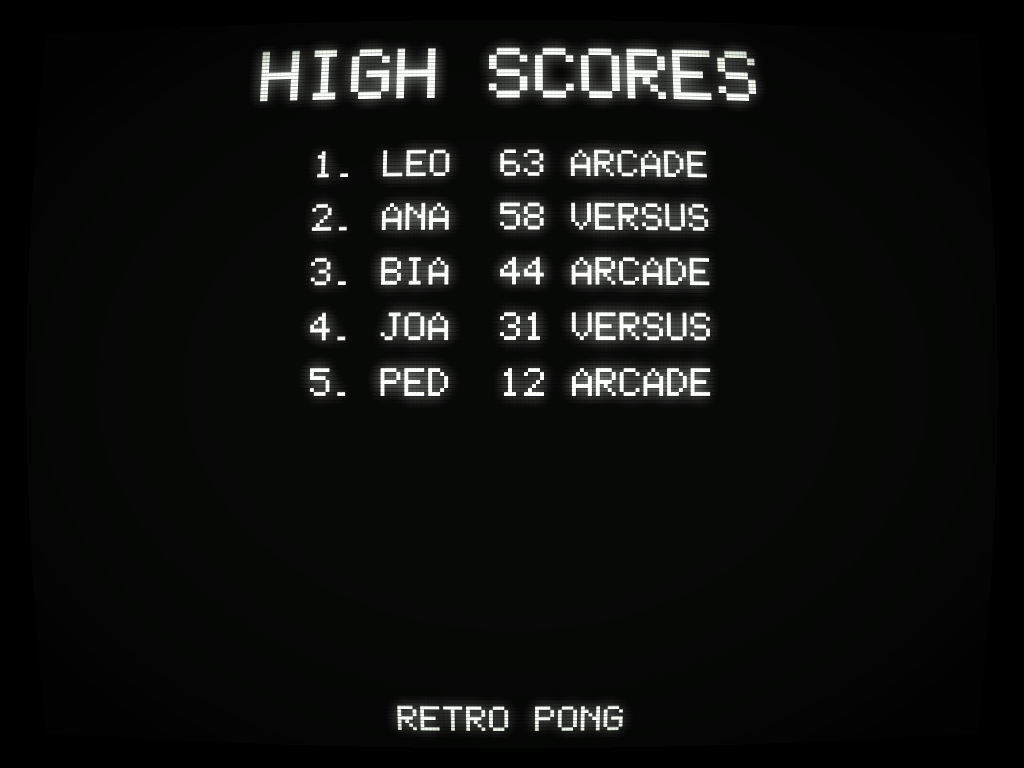
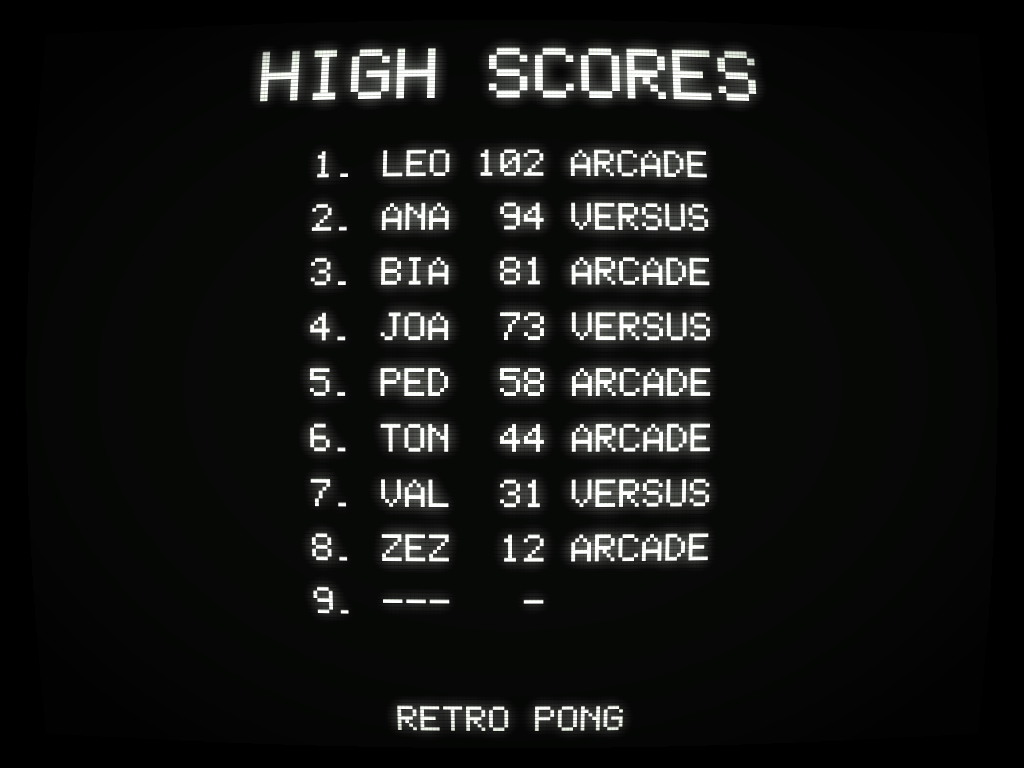
jogo: tabela de recordes com 9 lugares em vez de 5
A tela comporta: uma linha a cada 14 px, de y=36 a y=148, ainda 25 px
acima do rodape. Conferido no pior caso -- as 9 linhas cheias com o maior
placar possivel (123, tres letras, VERSUS) ocupam de y=8 a y=186 e de
x=62 a x=191.

O numero de entradas muda o TAMANHO do registro gravado na flash, entao
vai junto com HISCORE_VERSION 4: sem versao nova, uma tabela v3 antiga
seria lida com o layout novo e so o checksum a pegaria, que e fragil
demais para confiar. Com a v4 ela e descartada no primeiro boot, como ja
aconteceu na v3.

_Static_assert novo em highscores.c: hi_save() grava UMA pagina de flash
e copia a tabela inteira para um buffer desse tamanho, entao subir
HISCORE_COUNT alem do que cabe ali estouraria o buffer sem nenhum aviso.
Sao 84 dos 256 bytes com 9 entradas.

diff --git a/tools/sim.py b/tools/sim.py
@@ -55,7 +55,7 @@ INITIALS_HIST        = 78
 PAUSE_TIMEOUT_S   = 30
 PAUSE_POT_STEP    = 400
 PADDLE_TAKEOVER_TOL = 6
-HISCORE_COUNT     = 5
+HISCORE_COUNT     = 9
 INITIALS_LEN      = 3
 FONT_CELL_W       = 6
 FONT_CELL_H       = 8
@@ -1704,9 +1704,13 @@ def save_shots(outdir, assets, glyphs):
             g.total_score = [63, 55]
             g.draw_enter_initials()
         elif name == "highscores":
-            g.hiscores = [(63, 1, "LEO", MODE_ARCADE), (58, 2, "ANA", MODE_VERSUS),
-                          (44, 1, "BIA", MODE_ARCADE), (31, 1, "JOA", MODE_VERSUS),
-                          (12, 2, "PED", MODE_ARCADE)]
+            # oito preenchidas e a nona vazia: a foto mostra a tabela cheia
+            # e como fica uma linha que ninguem ocupou ainda
+            g.hiscores = [(102, 1, "LEO", MODE_ARCADE), (94, 2, "ANA", MODE_VERSUS),
+                          (81, 1, "BIA", MODE_ARCADE), (73, 1, "JOA", MODE_VERSUS),
+                          (58, 2, "PED", MODE_ARCADE), (44, 1, "TON", MODE_ARCADE),
+                          (31, 2, "VAL", MODE_VERSUS), (12, 1, "ZEZ", MODE_ARCADE),
+                          (0, 0, "   ", MODE_ARCADE)]
             g.draw_highscores()
 
         surf = pygame.image.frombuffer(bytes(g.fb.px), (FB_W, FB_H), "P")

diff --git a/src/config.h b/src/config.h
@@ -253,9 +253,13 @@
 #define AI_ERROR_MIN_PX   15                 // ... e na ultima
 
 // ===== Highscores =====
-#define HISCORE_COUNT     5
+// Nove entradas: e o que a tela comporta (linha a cada 14 px, da y=36 ate
+// y=148, ainda 25 px acima do rodape). Mexer aqui muda o TAMANHO da tabela
+// gravada na flash, entao vem junto com um numero de versao novo -- senao a
+// tabela antiga seria lida com o layout novo.
+#define HISCORE_COUNT     9
 #define HISCORE_MAGIC     0x50524F4Bu        // 'PROK'
-#define HISCORE_VERSION   3                  // v3: guarda o modo (arcade/versus)
+#define HISCORE_VERSION   4                  // v4: 9 entradas (v3: guarda o modo)
 #define INITIALS_LEN      3                  // letras por entrada
 
 #endif // PONG_CONFIG_H

diff --git a/src/highscores.c b/src/highscores.c
@@ -14,6 +14,12 @@
 #endif
 #define HI_FLASH_OFFSET   (PICO_FLASH_SIZE_BYTES - FLASH_SECTOR_SIZE)
 
+// hi_save() grava UMA pagina de flash e copia a tabela inteira para dentro de
+// um buffer desse tamanho: subir HISCORE_COUNT alem do que cabe ali estouraria
+// o buffer sem nenhum aviso. Com 9 entradas sao 84 dos 256 bytes.
+_Static_assert(sizeof(hi_table_t) <= FLASH_PAGE_SIZE,
+               "a tabela nao cabe na pagina que hi_save() grava");
+
 static hi_table_t table_ram;
 
 static const hi_table_t *flash_table(void) {

diff --git a/README.md b/README.md
@@ -358,7 +358,7 @@ Controles no Wokwi: gire os **potenciômetros** (mouse) para mover as raquetes;
 - **Ritmo**: a contagem 3-2-1 aparece só no primeiro ponto de cada fase; entre
   os pontos seguintes é só um "GO" rápido. Apertar o SELETOR pula as telas de
   início e de fim de fase — e, **durante a partida**, abre a pausa.
-- **Iniciais**: se o total entrar no top 5, o jogador insere 3 letras estilo
+- **Iniciais**: se o total entrar no top 9, o jogador insere 3 letras estilo
   arcade — girar o pot rola pelo alfabeto A–Z, apertar o SELETOR confirma a
   letra atual e passa para a próxima. A rolagem tem **freio**: no máximo 10
   letras por segundo, e a letra em foco só troca quando o pot sai da faixa dela
@@ -457,9 +457,10 @@ Veja `docs/images/preview_logo_1bit.png` para saber como ficou a versão
 - **Serigrafia da PCB**: as placas da v1 têm o botão serigrafado como
   **START** (a net no KiCad também se chama `START`). O firmware, os diagramas
   e as telas já o chamam de **SELETOR** — é o mesmo botão no GP22.
-- **Tabela de high scores zera ao atualizar**: o formato ganhou o campo de
-  modo (`HISCORE_VERSION 3`), então a tabela gravada por firmwares antigos é
-  descartada na primeira execução.
+- **Tabela de high scores zera ao atualizar**: ela passou a ter 9 entradas em
+  vez de 5, o que muda o tamanho do registro gravado (`HISCORE_VERSION 4`),
+  então a tabela gravada por firmwares antigos é descartada na primeira
+  execução.
 
 ## Créditos e referências
 

diff --git a/CLAUDE.md b/CLAUDE.md
@@ -239,8 +239,14 @@ for initials and menu; `input_last_moved()` tells the menu which pot to read;
 `input_seletor_pressed()` is the SELETOR edge. Also forces the Pico SMPS into PWM mode
 (GPIO23 high) for a cleaner ADC supply.
 
-**High scores** (`highscores.{c,h}`): persisted in the **last flash sector**
-(magic + version + checksum; **v3** stores the mode, so upgrading wipes the table). Flash-touching functions are `__not_in_flash_func`
+**High scores** (`highscores.{c,h}`): the top `HISCORE_COUNT` (**9** — what the
+screen holds, one line per 14 px from y=36 to y=148), persisted in the **last flash
+sector** (magic + version + checksum). Any change to the *layout* of `hi_table_t`
+needs a new `HISCORE_VERSION`, which wipes the table on the first boot: v3 added the
+mode, v4 went from 5 entries to 9. `hi_save()` writes a single `FLASH_PAGE_SIZE`
+page and memcpys the whole table into a buffer that size, so `HISCORE_COUNT` is
+bounded by it (84 of 256 bytes at 9; a `_Static_assert` holds the line).
+Flash-touching functions are `__not_in_flash_func`
 and wrap `save_and_disable_interrupts()`.
 
 **Assets** (`assets.{c,h}`): const 1-bit bitmaps (the RetroSC logo 220×69 and the
